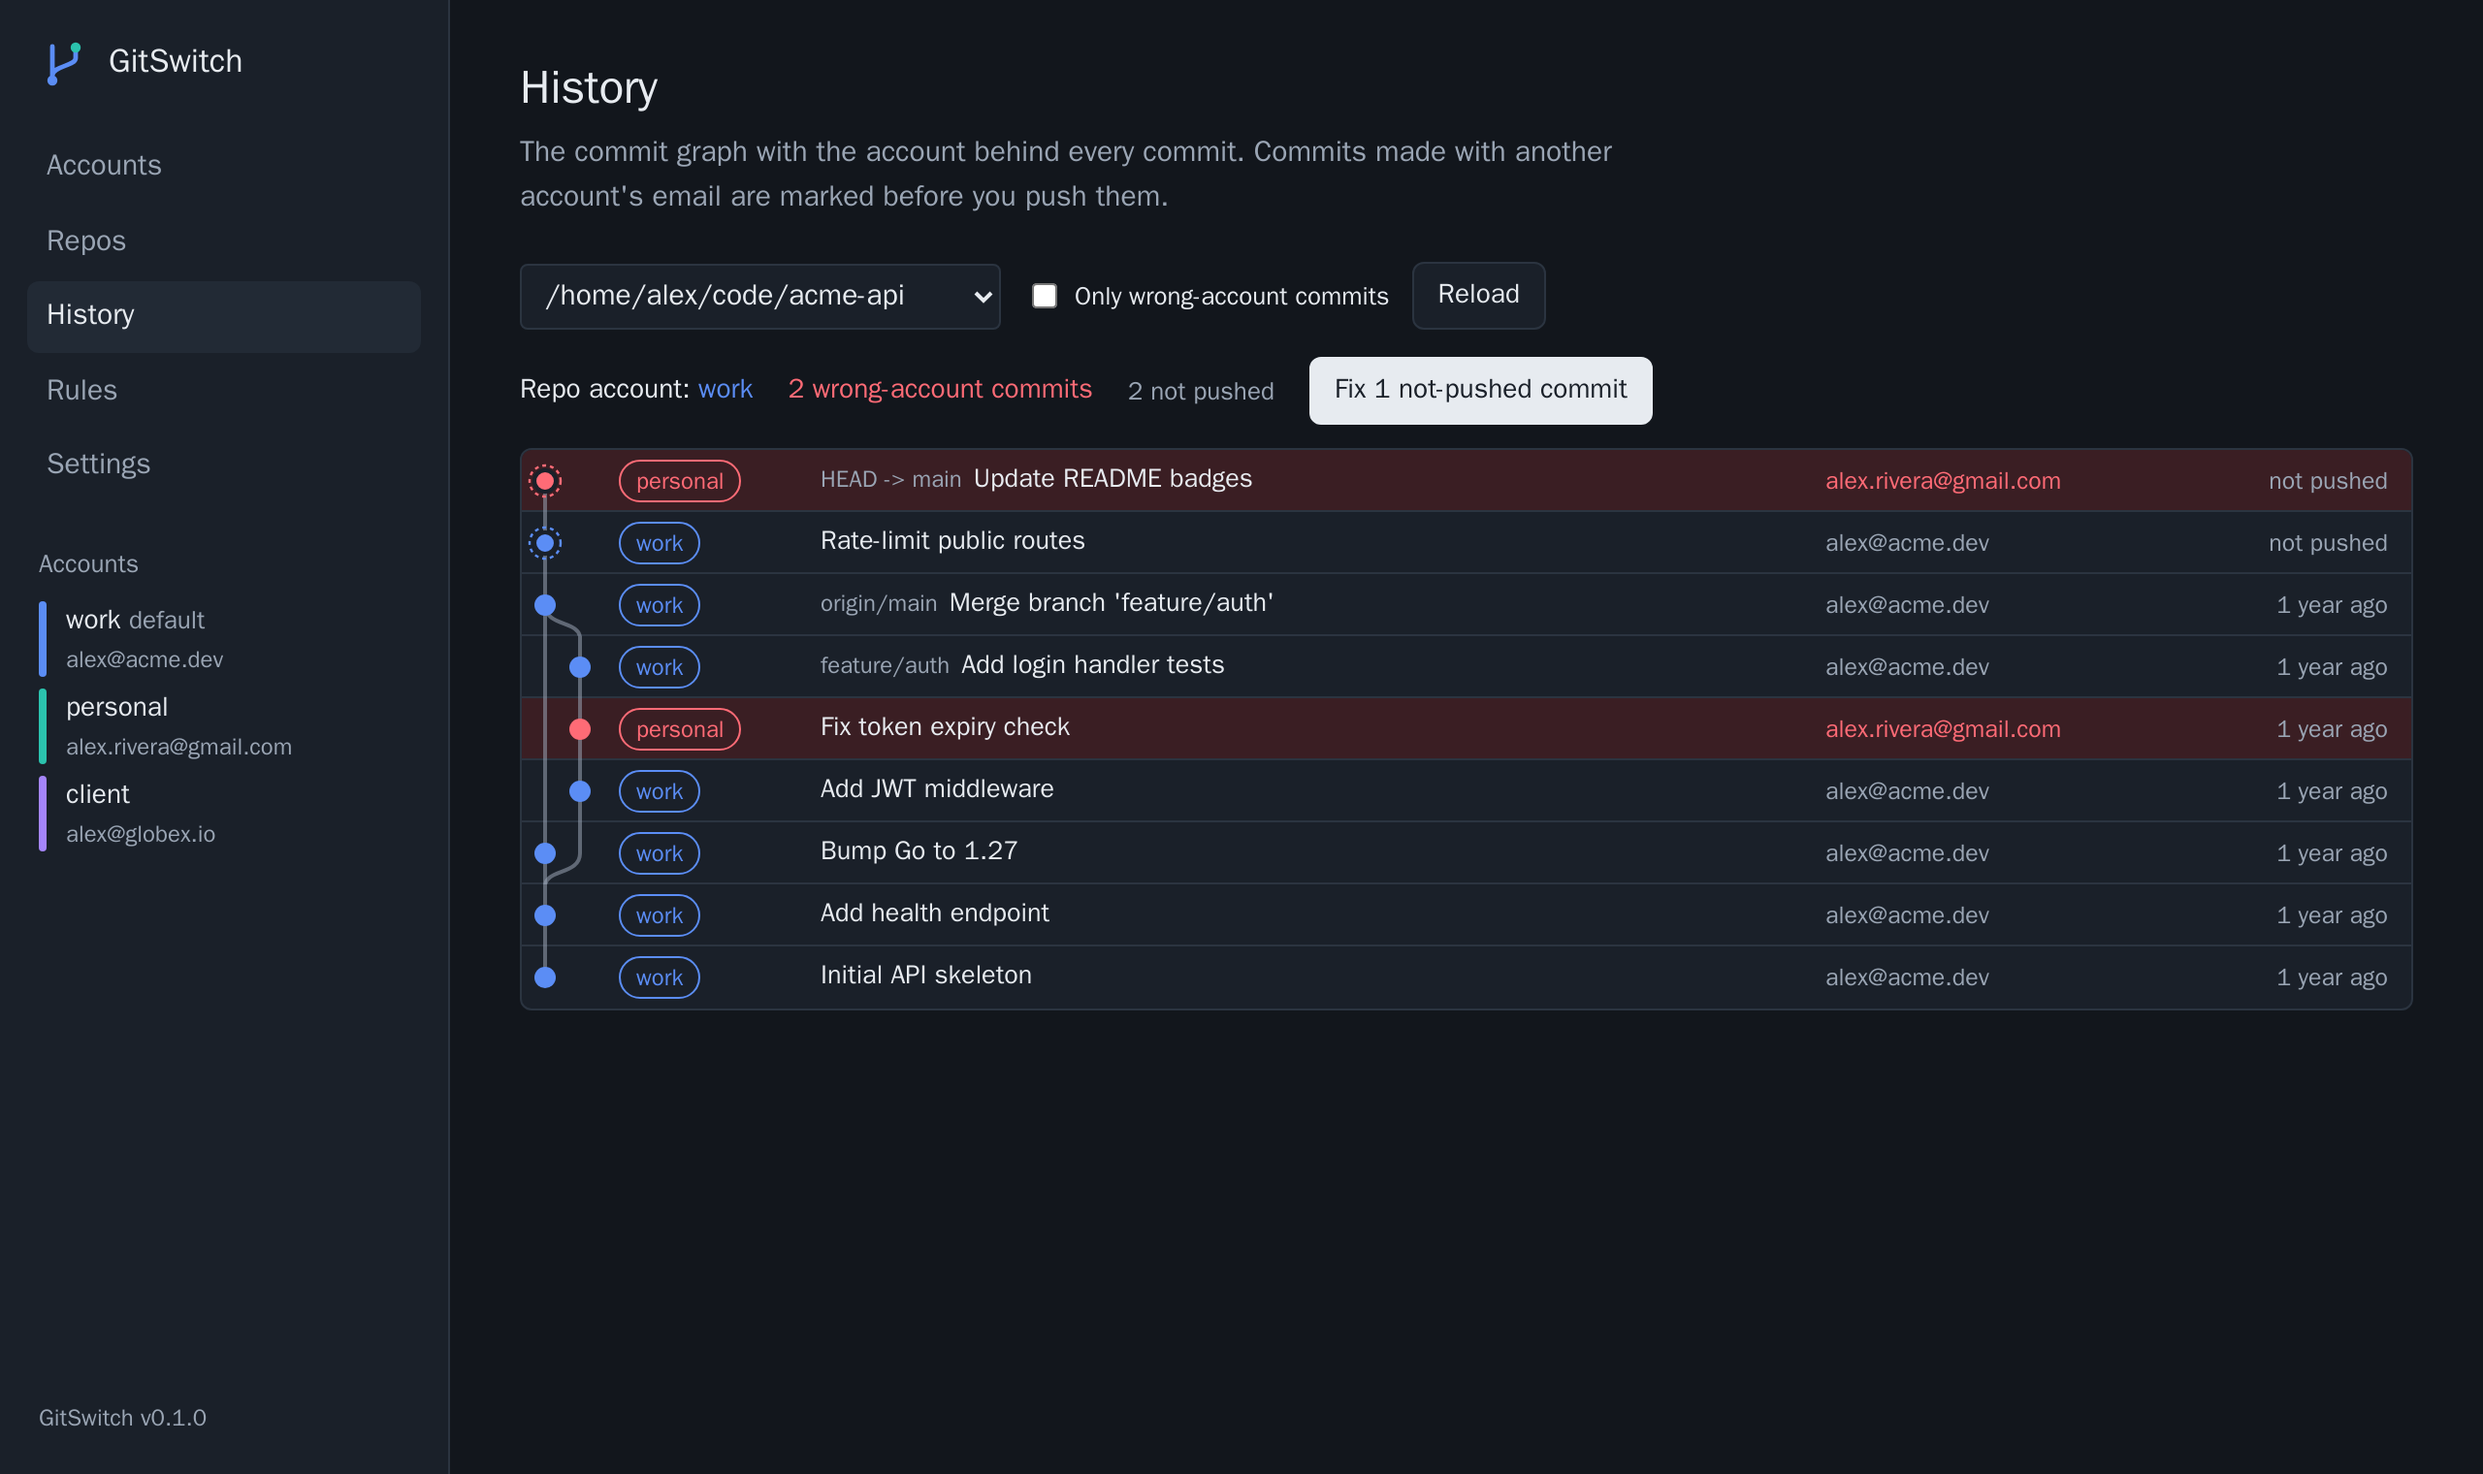
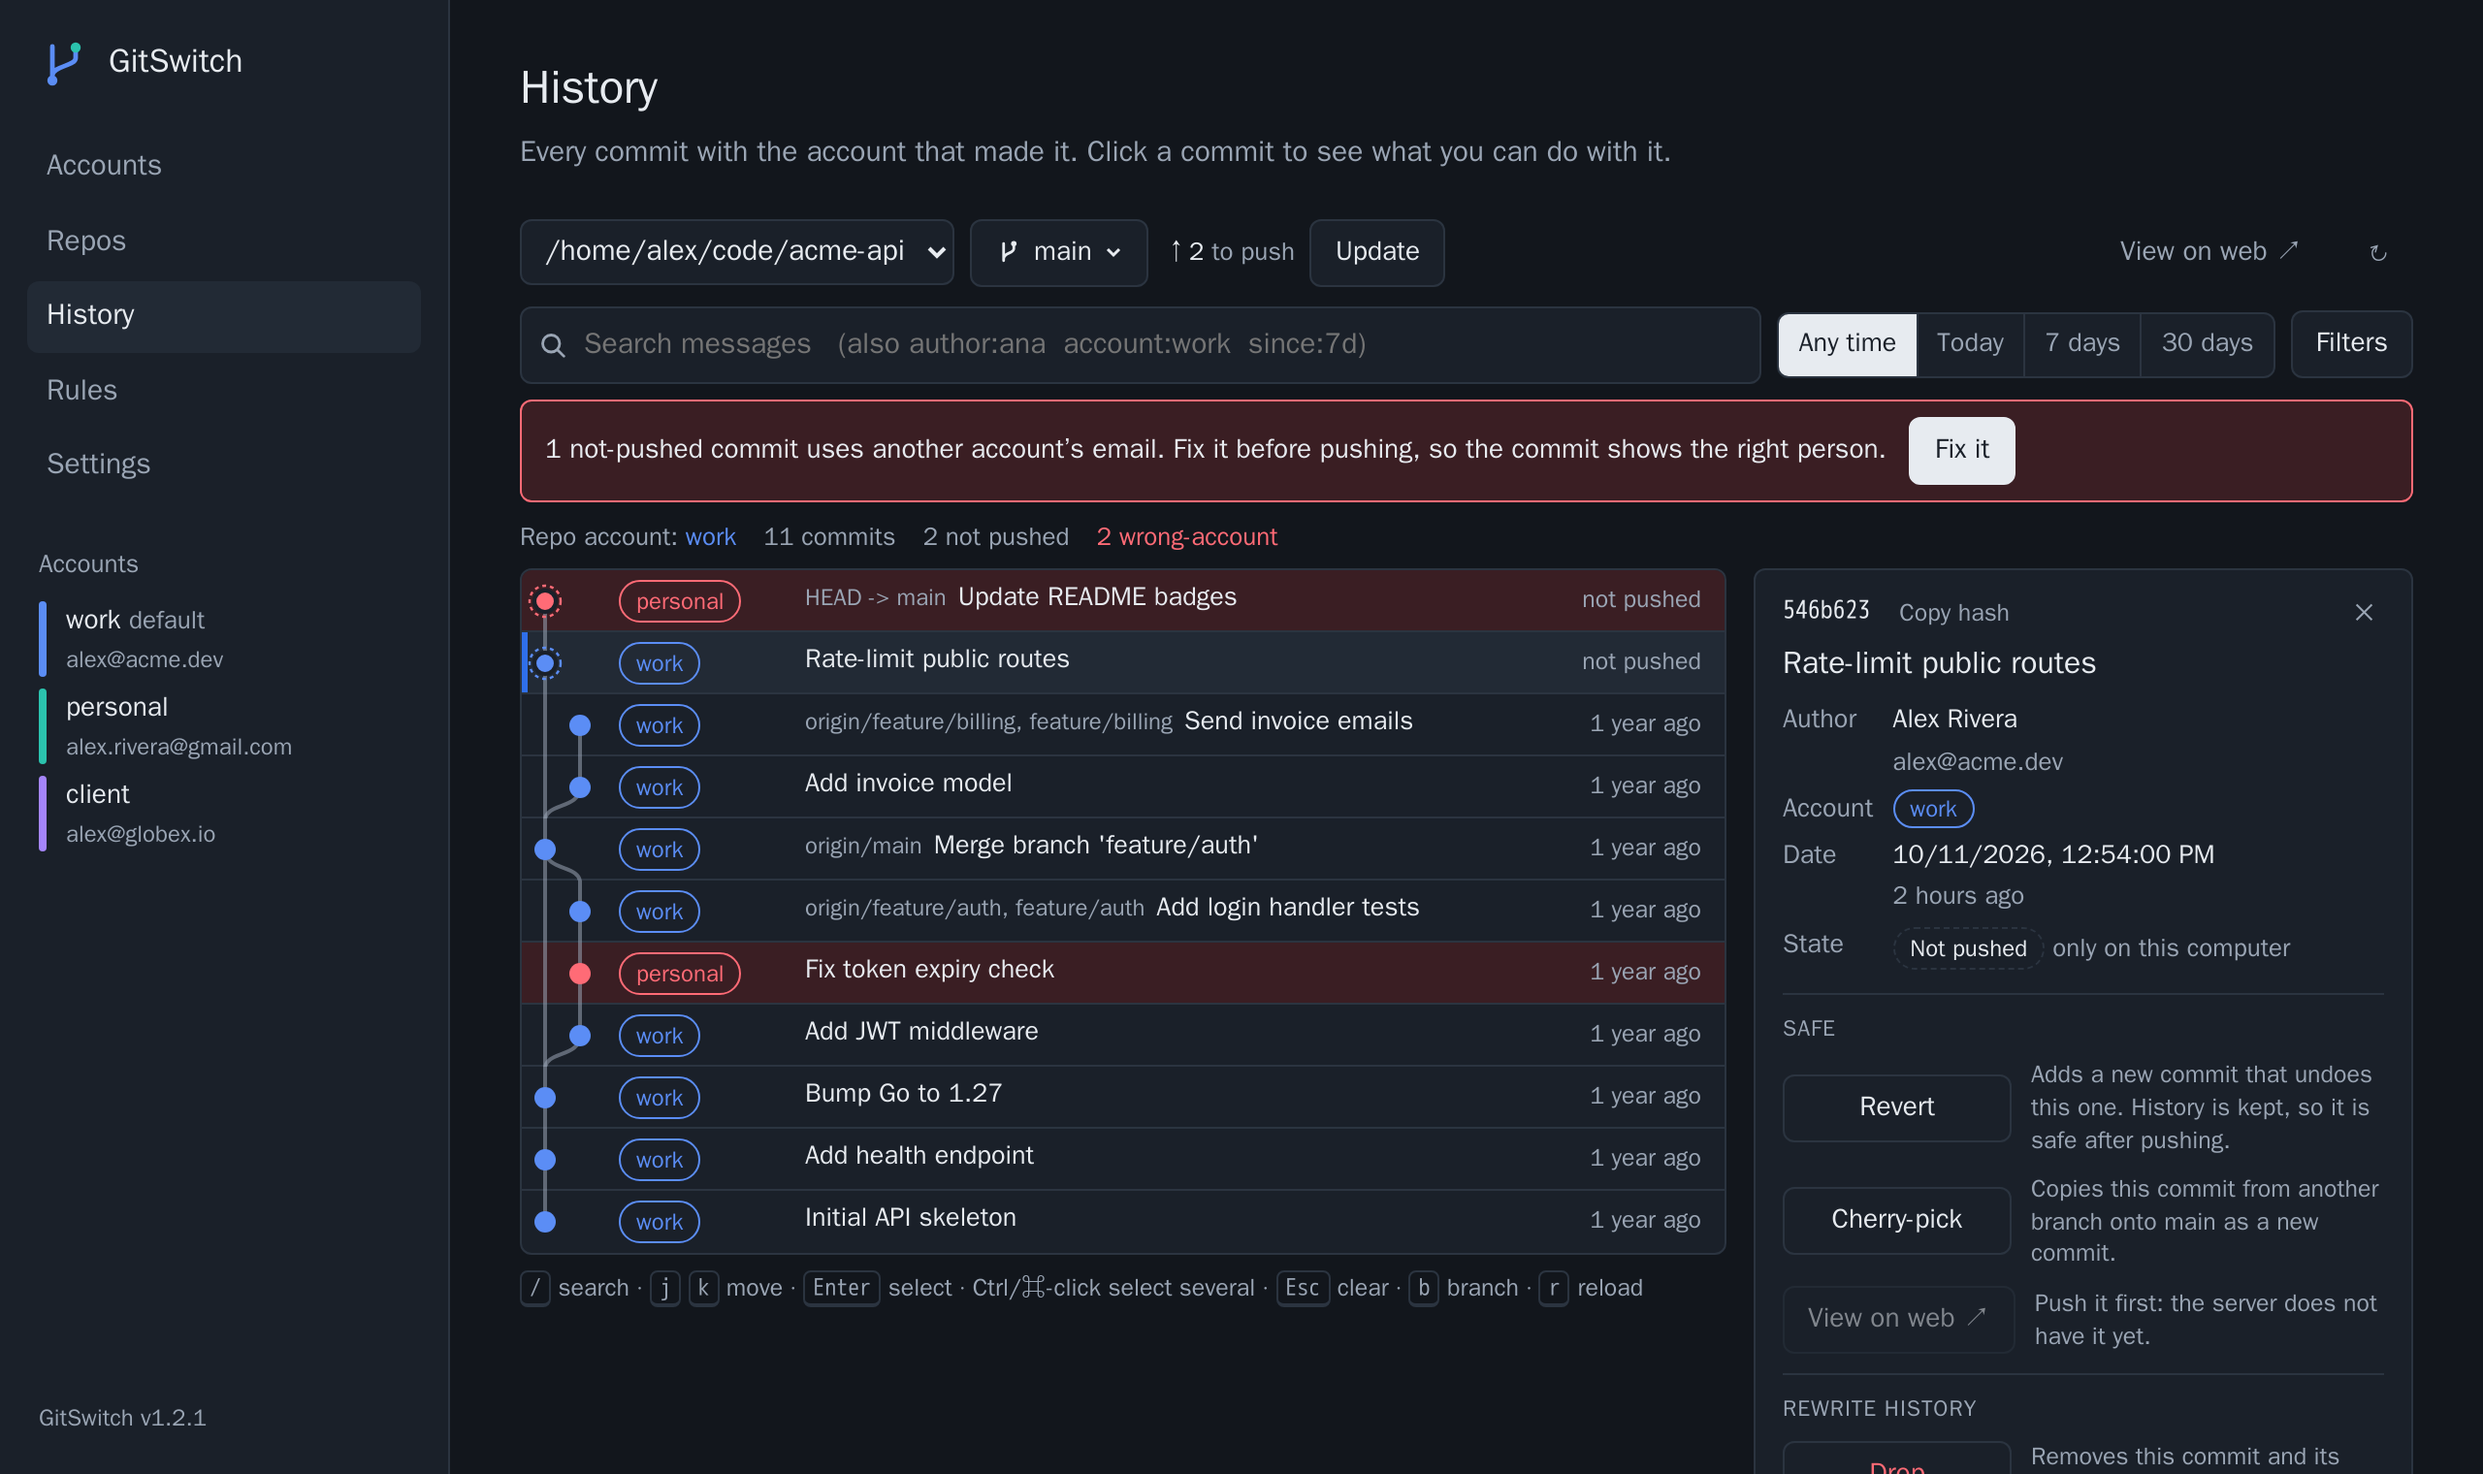
Fix the macOS desktop build; update the landing page and README
The macOS build with the desktop window failed to link
(_OBJC_CLASS_$_UTType): Wails' file dialogs use UTType, which lives in
the UniformTypeIdentifiers framework, and Wails does not link it. The
window package now links it on macOS. This build failure stopped every
release from publishing.

Docs: a History and branches section on the landing page, an updated
feature card, nav link and README intro; new History screenshots in
light and dark. The commit details panel was an <aside> and picked up
the sidebar's styles; it is a plain region now.

Claude-Session: https://claude.ai/code/session_01KRyzauYmetTnrpK9SsjkgP

diff --git a/docs/index.html b/docs/index.html
@@ -151,6 +151,7 @@
     <nav>
       <a href="#features">Features</a>
       <a href="#install">Install</a>
+      <a href="#history">History</a>
       <a href="#apps">Apps</a>
       <a class="gh" href="https://github.com/macdipu/gitswitch">GitHub</a>
     </nav>
@@ -211,8 +212,8 @@ always use it for this repo (e.g. 2!): <span class="h">2!</span></pre>
         </div>
         <div class="card">
           <div class="icon"><svg viewBox="0 0 24 24" fill="none" stroke="currentColor" stroke-width="2" stroke-linecap="round" stroke-linejoin="round"><circle cx="6" cy="6" r="3"/><circle cx="6" cy="18" r="3"/><circle cx="18" cy="12" r="3"/><path d="M6 9v6M8.6 7.5 15.4 10.5"/></svg></div>
-          <h3>History with accounts</h3>
-          <p>See the account behind every commit, spot wrong-account commits and fix the ones not pushed yet.</p>
+          <h3>History you can act on</h3>
+          <p>The account behind every commit. Revert, drop, roll back and cherry-pick, switch branches and pull, with each step explained.</p>
         </div>
         <div class="card">
           <div class="icon"><svg viewBox="0 0 24 24" fill="none" stroke="currentColor" stroke-width="2" stroke-linecap="round" stroke-linejoin="round"><path d="M22 11.08V12a10 10 0 1 1-5.93-9.14"/><path d="M22 4 12 14.01l-3-3"/></svg></div>
@@ -280,7 +281,46 @@ gitswitch rule add folder:~/personal personal</pre><button class="copy">Copy</bu
     </div>
   </section>
 
-  <section id="apps">
+  <section id="history">
+    <div class="wrap">
+      <h2>History and branches, without the fear</h2>
+      <p class="sub">The History page and <code>gitswitch</code> commands let you undo, copy and find commits. They always use the repo's account and never rewrite anything you have already pushed.</p>
+      <div class="features">
+        <div class="card">
+          <div class="icon"><svg viewBox="0 0 24 24" fill="none" stroke="currentColor" stroke-width="2" stroke-linecap="round" stroke-linejoin="round"><path d="M12 22s8-4 8-10V5l-8-3-8 3v7c0 6 8 10 8 10z"/></svg></div>
+          <h3>Safe by default</h3>
+          <p>Every action says what it does to your work. Drop and roll back only touch commits that are not pushed, and roll back keeps the changes in your files. If something does not apply cleanly, nothing changes.</p>
+        </div>
+        <div class="card">
+          <div class="icon"><svg viewBox="0 0 24 24" fill="none" stroke="currentColor" stroke-width="2" stroke-linecap="round" stroke-linejoin="round"><circle cx="11" cy="11" r="7"/><path d="m21 21-4.3-4.3"/></svg></div>
+          <h3>Find any commit</h3>
+          <p>Search the whole history by message, author, account or date. Type words, or tokens like <code>author:ana since:7d</code>; filters show as chips you can remove.</p>
+        </div>
+        <div class="card">
+          <div class="icon"><svg viewBox="0 0 24 24" fill="none" stroke="currentColor" stroke-width="2" stroke-linecap="round" stroke-linejoin="round"><circle cx="6" cy="6" r="3"/><circle cx="6" cy="18" r="3"/><circle cx="18" cy="6" r="3"/><path d="M6 9v6M18 9c0 5-12 3-12 6"/></svg></div>
+          <h3>Branches in one click</h3>
+          <p>See what you have to push and pull, switch branch (remote ones too) and update. Pulls never create a surprise merge commit.</p>
+        </div>
+      </div>
+      <div class="steps">
+        <div>
+          <h3>For your first week of git</h3>
+          <p>Click a commit in the desktop app. It shows the safe actions first, explains each one, and puts the ones that rewrite history apart, with the reason when they are not allowed.</p>
+          <h3>For every day</h3>
+          <p>Keys for everything (<code>/</code> search, <code>j</code>/<code>k</code> move, <code>b</code> branch), Ctrl/⌘-click to cherry-pick several commits, and the same actions in the terminal app and the CLI.</p>
+        </div>
+        <div class="cmd"><pre>gitswitch log --author ana --since "2 weeks ago"
+gitswitch switch origin/feature-x
+gitswitch update
+gitswitch revert 1a2b3c4
+gitswitch cherry-pick 5d6e7f8 9a0b1c2
+gitswitch rollback 1a2b3c4
+gitswitch browse 1a2b3c4</pre><button class="copy">Copy</button></div>
+      </div>
+    </div>
+  </section>
+
+  <section id="apps" class="alt">
     <div class="wrap">
       <h2>Terminal app and desktop app</h2>
       <p class="sub">Run <code>gitswitch</code> for the terminal app or <code>gitswitch ui</code> for the desktop app. Both show Accounts, Repos, History, Rules and Settings.</p>
@@ -294,8 +334,8 @@ gitswitch rule add folder:~/personal personal</pre><button class="copy">Copy</bu
         <button role="tab" aria-selected="false" data-tab="tui">Terminal app</button>
       </div>
       <div data-panel="history">
-        <picture class="shot"><source media="(prefers-color-scheme: dark)" srcset="images/web-history-dark.png"><img src="images/web-history-light.png" alt="Desktop app: commit history with the account behind every commit, wrong-account commits highlighted" loading="lazy"></picture>
-        <p class="shot-caption">Commit history with the account behind every commit. Wrong-account commits are highlighted.</p>
+        <picture class="shot"><source media="(prefers-color-scheme: dark)" srcset="images/web-history-dark.png"><img src="images/web-history-light.png" alt="Desktop app: History page with branch and sync status, search, the commit graph with the account behind every commit, and a selected commit's details with explained actions" loading="lazy"></picture>
+        <p class="shot-caption">The account behind every commit, the branch and what to push or pull, search, and a commit's actions explained in plain words.</p>
       </div>
       <div data-panel="accounts" hidden>
         <picture class="shot"><source media="(prefers-color-scheme: dark)" srcset="images/web-accounts-dark.png"><img src="images/web-accounts-light.png" alt="Desktop app: Accounts page with three accounts, each signed in" loading="lazy"></picture>
@@ -320,7 +360,7 @@ gitswitch rule add folder:~/personal personal</pre><button class="copy">Copy</bu
     </div>
   </section>
 
-  <section id="ide" class="alt">
+  <section id="ide">
     <div class="wrap">
       <h2>IDE notes</h2>
       <p class="sub">Most setups need nothing. A few tools have quirks worth knowing.</p>

diff --git a/internal/interfaces/desktop/assets/index.html b/internal/interfaces/desktop/assets/index.html
@@ -305,7 +305,7 @@ dialog .row-actions{justify-content:flex-end}
         <div class="selbar" id="selbar" hidden aria-live="polite"></div>
         <p class="keys" id="histKeys"><kbd>/</kbd> search · <kbd>j</kbd> <kbd>k</kbd> move · <kbd>Enter</kbd> select · Ctrl/⌘-click select several · <kbd>Esc</kbd> clear · <kbd>b</kbd> branch · <kbd>r</kbd> reload</p>
       </div>
-      <aside class="details" id="details" hidden aria-label="Commit details"></aside>
+      <div class="details" id="details" hidden role="region" aria-label="Commit details"></div>
     </div>
   </section>
 

diff --git a/internal/interfaces/desktop/window/link_darwin.go b/internal/interfaces/desktop/window/link_darwin.go
@@ -1,0 +1,10 @@
+//go:build desktop
+
+package window
+
+// Wails' file dialogs use UTType, which lives in the UniformTypeIdentifiers
+// framework; Wails does not link it, so the macOS build fails without this
+// ("Undefined symbols: _OBJC_CLASS_$_UTType").
+
+// #cgo LDFLAGS: -framework UniformTypeIdentifiers
+import "C"

diff --git a/README.md b/README.md
@@ -2,7 +2,7 @@
 
 [![test](https://github.com/macdipu/gitswitch/actions/workflows/test.yml/badge.svg)](https://github.com/macdipu/gitswitch/actions/workflows/test.yml)
 [![release](https://img.shields.io/github/v/release/macdipu/gitswitch?sort=semver)](https://github.com/macdipu/gitswitch/releases/latest)
-[![Go](https://img.shields.io/badge/go-1.22%2B-00ADD8?logo=go)](go.mod)
+[![Go](https://img.shields.io/badge/go-1.25%2B-00ADD8?logo=go)](go.mod)
 ![platforms](https://img.shields.io/badge/platforms-Windows%20%7C%20macOS%20%7C%20Linux-lightgrey)
 [![license](https://img.shields.io/badge/license-MIT-blue)](LICENSE)
 
@@ -22,11 +22,12 @@ Type a number for this time, or add ! to always use it for this repo (e.g. 2!): 
 - **One file, one-time install.** A single binary for Windows, macOS and Linux. Keeps working after restarts and updates.
 - **Nothing running in the background.** Git starts GitSwitch for a moment on each network command (~15 ms, ~10 MB), then it exits.
 - **Two front ends, same settings:** a terminal app (`gitswitch`) and a desktop app (`gitswitch ui`).
+- **History you can act on:** the account behind every commit; revert, drop, roll back and cherry-pick with each step explained; switch branches and pull; search by message, author, account or date. Pushed history is never rewritten.
 - **Works everywhere git runs:** Windows Terminal, PowerShell, cmd, macOS Terminal, iTerm, VS Code, Android Studio and other JetBrains IDEs, GitHub Desktop, SourceTree.
 
 <picture>
   <source media="(prefers-color-scheme: dark)" srcset="docs/images/web-history-dark.png">
-  <img alt="GitSwitch desktop app: commit history with the account behind every commit, wrong-account commits highlighted" src="docs/images/web-history-light.png">
+  <img alt="GitSwitch desktop app: History page with branch and sync status, search, the commit graph with the account behind every commit, and a selected commit's explained actions" src="docs/images/web-history-light.png">
 </picture>
 
 ## Contents
@@ -36,7 +37,7 @@ Type a number for this time, or add ! to always use it for this repo (e.g. 2!): 
 - [How an account is chosen](#how-an-account-is-chosen)
 - [Terminal app and desktop app](#terminal-app-and-desktop-app)
 - [IDE notes](#ide-notes)
-- [Commit history](#commit-history)
+- [Commit history and branches](#commit-history-and-branches)
 - [Repo list](#repo-list)
 - [Health check](#health-check)
 - [Command reference](#command-reference)
@@ -175,7 +176,7 @@ Both edit the same settings. A change in one shows up in the other.
 | | Terminal app | Desktop app |
 | --- | --- | --- |
 | Open | `gitswitch` (or `gitswitch tui`) | `gitswitch ui`, or GitSwitch in the Start / app menu |
-| Best for | IDE terminals, SSH sessions, WSL, servers | Mouse users, the visual history graph |
+| Best for | IDE terminals, SSH sessions, WSL, servers | Mouse users, the visual history graph and commit actions |
 | Pages | Accounts, Repos, History, Rules, Settings | Accounts, Repos, History, Rules, Settings |
 | Runs in | the terminal | the system web view (WebView2, WebKit, WebKitGTK) |
 | Closes | press `q` | close the window |
